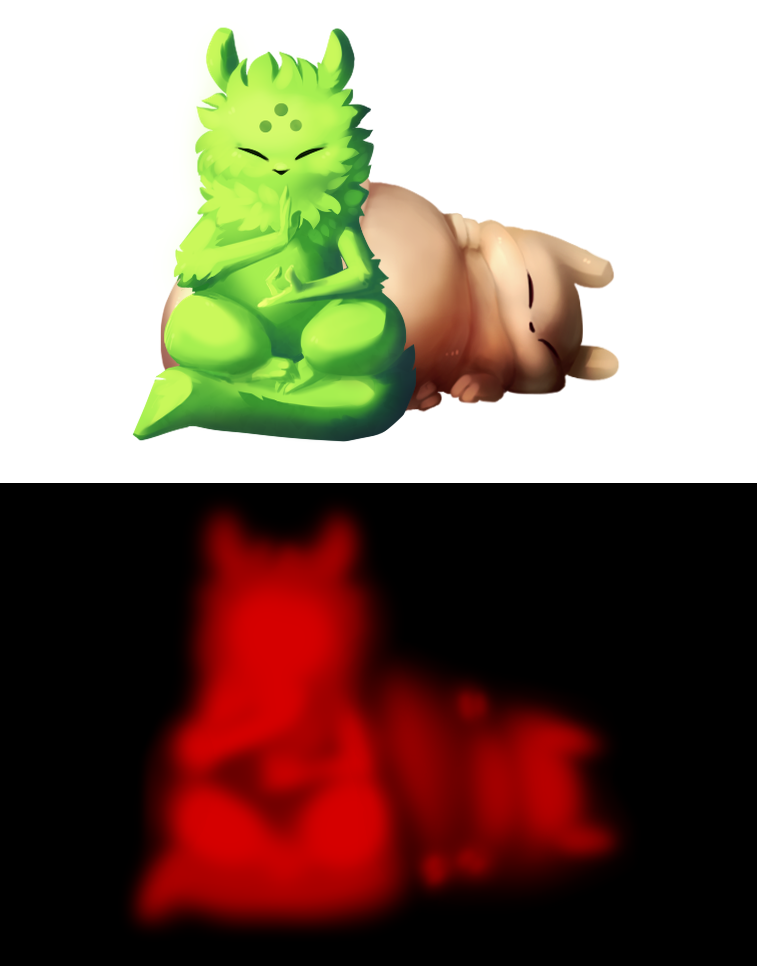
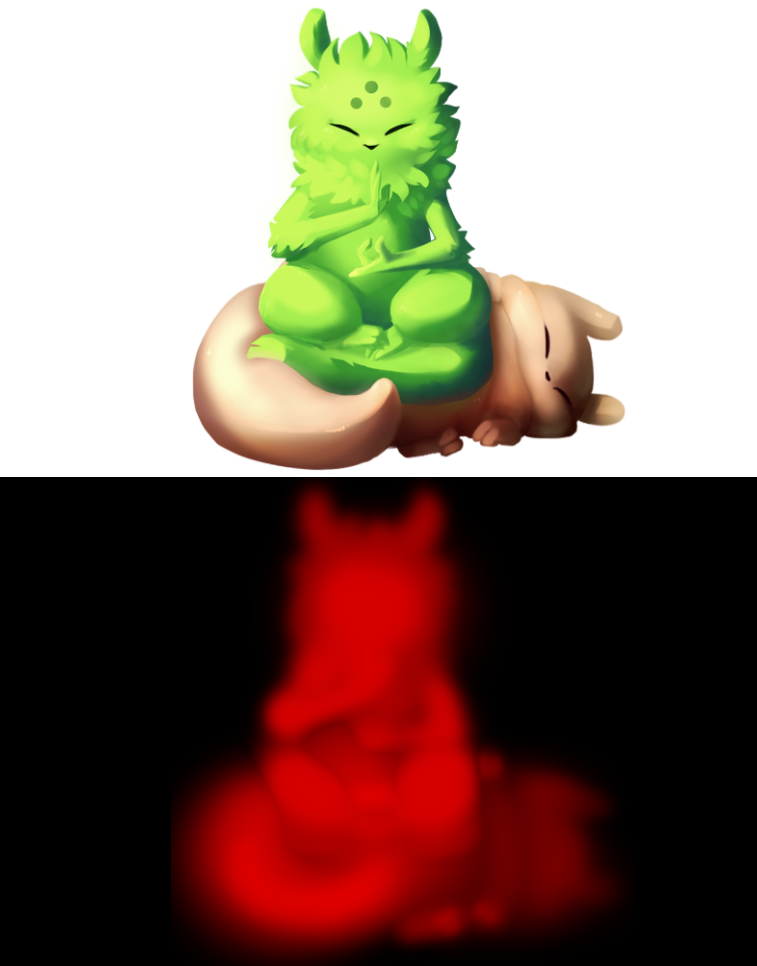
A lot more illustrations
Now with help from lightparty!
(The `-b` image variants have been temporarily left out of the commit so that it all still works ingame)

diff --git a/src/JollySleepingMod.cs b/src/JollySleepingMod.cs
@@ -49,13 +49,13 @@ namespace JollySleeping
 
 		public void OnEnable()
 		{
-			On.RainWorld.OnModsInit += OnInit;
+			On.RainWorld.OnModsInit += Init;
 			On.StoryGameSession.CreateJollySlugStats += CreateJollySlugStatsHK;
 
 			On.Menu.MenuScene.ctor += SleepSceneBuilder.MenuSceneHK;
 		}
 
-		private void OnInit(On.RainWorld.orig_OnModsInit orig, RainWorld self)
+		private void Init(On.RainWorld.orig_OnModsInit orig, RainWorld self)
 		{
 			orig(self);
 			if (!initialised)

diff --git a/src/SleepSceneBuilder.cs b/src/SleepSceneBuilder.cs
@@ -5,7 +5,7 @@ using UnityEngine;
 
 namespace JollySleeping
 {
-	public class SleepSceneBuilder
+	public static class SleepSceneBuilder
 	{
 		/// <summary>
 		/// Removes existing illustrations which are about to be replaced, and calls either <see cref="AddSingleplayerSlugcat(MenuScene, bool)"/><br/>

diff --git a/README.md b/README.md
@@ -1,1 +1,1 @@
-Very much WIP mod for Rain World.
+Very very WIP mod for Rain World.
